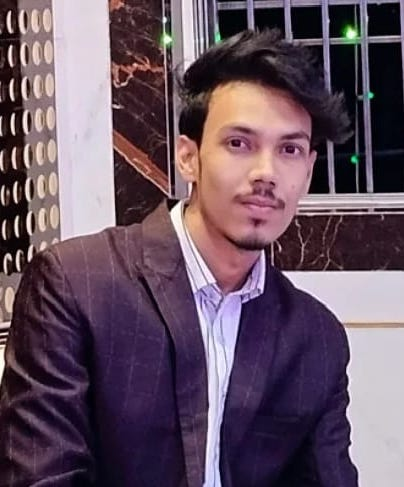
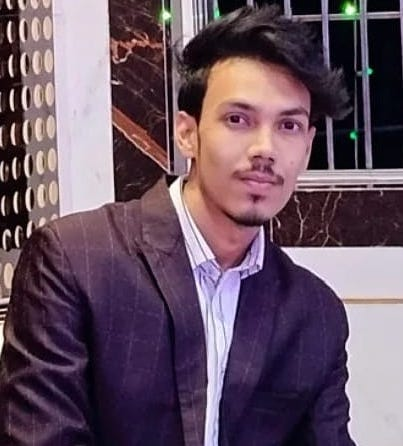
update

diff --git a/app/components/Home/Team/Team.tsx b/app/components/Home/Team/Team.tsx
@@ -153,7 +153,7 @@ const Teams = [
     },
     {
         name:"Md Ahshan Ahmad",
-        picture:"", 
+        picture:"/assets/team/volunteer/Ahshan.jpeg", 
         designation:"Member"
     },
     {